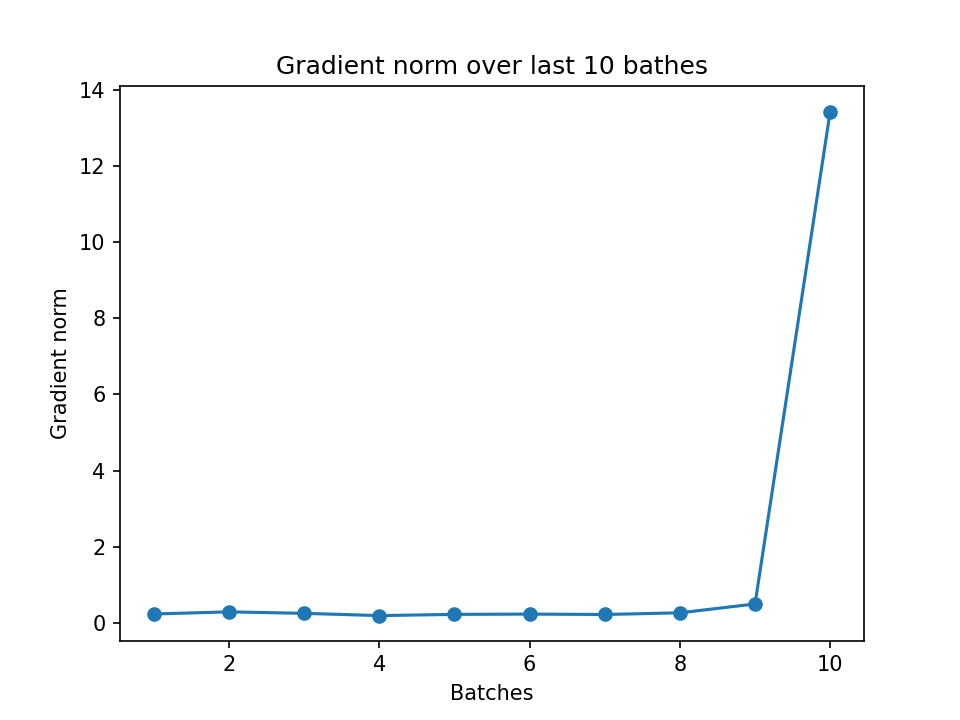
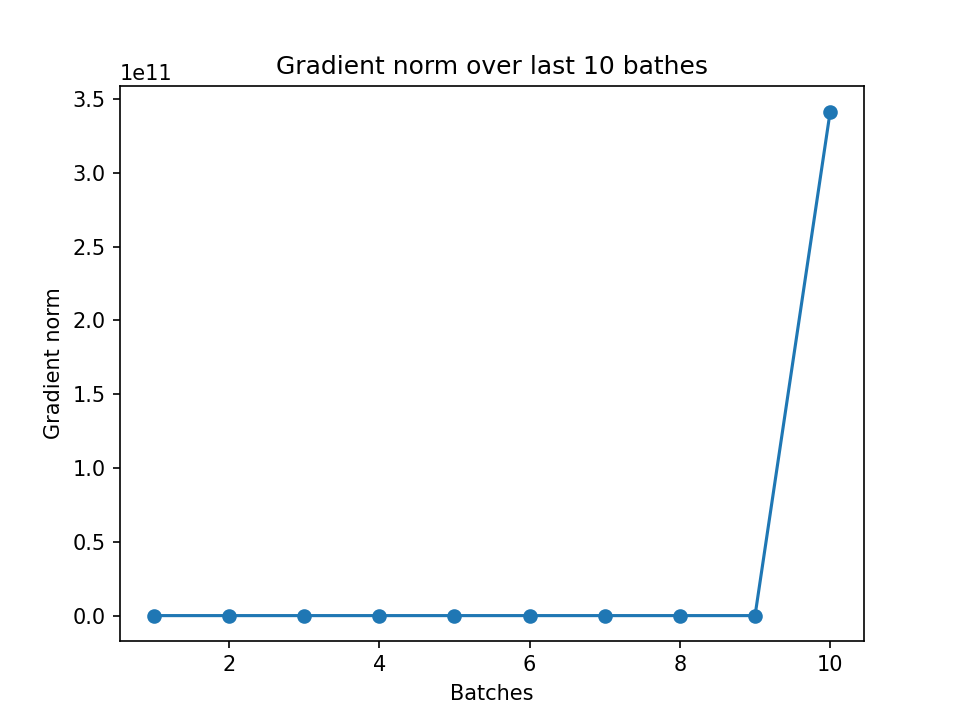
retrained CNN model for exploding and mitigation method

diff --git a/training_loop.py b/training_loop.py
@@ -5,28 +5,32 @@ import matplotlib.pyplot as plt
 import math
 
 from data.data_pipeline import create_dataloaders
-from RNN_model import RNN
+from CNN_model import CNN
 
 
-def train_model(model, train_loader, num_epochs=100, learning_rate=1, gradient_clip=None, weight_scaler=None, weight_decay=0):
+def train_model(model, train_loader, val_loader, num_epochs=100, learning_rate=1, mitigation_on=False):
     """
-    Training loop for RNN model.
+    Training loop for CNN model.
     
-    :param model: RNN model.
+    :param model: CNN model.
     :param train_loader: Training data.
     :param num_epochs: Number of epochs model is trained.
     :param learning_rate: Learning rate used for training.
-    :param gradient_clip: Value when gradients are clipped. If None gradients don't get clipped.
-    :param weight_scaler: Scaling value for the weights, if None weigths are not getting scaled.
+    :param mitigation_on: if False training loop will results in exploding gradients
+    else will result in mitigtation, will clip gradients, add weight_decay and learning rate decay with scheduler.
+    This will result in gradient and loss going down over time.
     """
 
-    if weight_scaler != None:
-        for name, param in model.named_parameters():
-            if 'weight_hh' in name:
-                param.data *= weight_scaler
+    if mitigation_on:
+        gradient_clip = 0.5
+        weight_decay = 1e-4
 
     criterion = nn.CrossEntropyLoss()
-    optimizer = torch.optim.SGD(model.parameters(), lr=learning_rate, weight_decay=weight_decay)
+    if not mitigation_on:
+        optimizer = torch.optim.SGD(model.parameters(), lr=learning_rate)
+    if mitigation_on:
+        optimizer = torch.optim.SGD(model.parameters(), lr=learning_rate, weight_decay=weight_decay)
+        scheduler = torch.optim.lr_scheduler.CosineAnnealingLR(optimizer, T_max=num_epochs, eta_min=0.001)
     train_losses = []
     grad_norms = []
     validation_losses = []
@@ -45,7 +49,7 @@ def train_model(model, train_loader, num_epochs=100, learning_rate=1, gradient_c
             optimizer.zero_grad()
             loss.backward()
 
-            if gradient_clip != None:
+            if mitigation_on:
                 mitigation = 'mitigation'
                 grad_norm = torch.nn.utils.clip_grad_norm_(model.parameters(), max_norm=gradient_clip)
             else:
@@ -66,10 +70,16 @@ def train_model(model, train_loader, num_epochs=100, learning_rate=1, gradient_c
         train_losses.append(train_loss)
                 
         grad_norms.append(np.mean(epoch_grad_norms))
-        print(f"Epoch {epoch}: Loss={loss:.4f}, GradNorm={np.mean(epoch_grad_norms):.2e}")
+        if mitigation_on:
+            scheduler.step()
 
+            last_lr = scheduler.get_last_lr()
+            print(last_lr)
 
-        #for if you want to use val
+        if torch.isnan(loss):
+            break
+
+        # #for if you want to use val
         # model.eval()
         # val_loss = 0
         # with torch.no_grad():
@@ -82,16 +92,14 @@ def train_model(model, train_loader, num_epochs=100, learning_rate=1, gradient_c
         
         # val_loss /= len(val_loader)
         # validation_losses.append(val_loss)
-
-        if torch.isnan(loss):
-            break
+        
+        print(f"Epoch {epoch}: Loss={train_loss:.4f}, GradNorm={np.mean(epoch_grad_norms):.2e}")
 
     return train_losses, grad_norms, validation_losses, last_10_grads, mitigation
 
+
 if __name__ == '__main__':
-    #For exploding gradiensts set batch_size to 64 and don't apply clipping
-    #For mitigation method for exploding gradiensts set gradient_clipping to 0.5 and set batch_size to 32 
-    #or gradient_clipping to 0.5 and weight_decay to 1e-2
+    #For exploding set mitigation_on to False and for mitigation set mitigation on to True
 
     DATA_CONFIG = {
     "use_normalized": False,     
@@ -103,6 +111,7 @@ if __name__ == '__main__':
     "batch_size":64,
     "shuffle": True,
     }
+
 
     train_loader, val_loader, test_loader = create_dataloaders(
         preprocessed_dir="preprocessed",
@@ -116,9 +125,10 @@ if __name__ == '__main__':
 
     print(f"Device: {device}")
 
-    model = RNN(input_size=1, hidden_size=256, num_layers=3, nonlinearity='relu', num_classes=10).to(device)
+    model = CNN(num_conv_layers=5, base_channels=32, num_classes=10).to(device)
 
-    train_losses, grad_norms, validation_losses, last_10_grads, mitigation = train_model(model, train_loader, learning_rate=1, gradient_clip=0.5, weight_decay=0)
+    train_losses, grad_norms, validation_losses, last_10_grads, mitigation = train_model(model, train_loader, val_loader, 
+                                                                                         learning_rate=0.35, mitigation_on=True)
 
     epochs = np.arange(0, len(train_losses))
 
@@ -147,4 +157,3 @@ if __name__ == '__main__':
     plt.ylabel('Gradient norm')
     plt.title('Gradient norm over last 10 bathes')
     plt.savefig(f'plots/grad_norms_last_10_{mitigation}.png', dpi=150)
-

diff --git a/data/data_pipeline.py b/data/data_pipeline.py
@@ -39,11 +39,11 @@ def load_data(preprocessed_dir, config=DEFAULT_CONFIG):
 
     # Choose raw vs normalized
     if config["use_normalized"]:
-        X_train = np.load(f"data/{preprocessed_dir}/X_train_norm.npy")
-        X_test = np.load(f"data/{preprocessed_dir}/X_test_norm.npy")
+        X_train = np.load(f"data/{preprocessed_dir}/X_train_norm_cnn.npy")
+        X_test = np.load(f"data/{preprocessed_dir}/X_test_norm_cnn.npy")
     else:
-        X_train = np.load(f"data/{preprocessed_dir}/X_train_raw.npy")
-        X_test = np.load(f"data/{preprocessed_dir}/X_test_raw.npy")
+        X_train = np.load(f"data/{preprocessed_dir}/X_train_raw_cnn.npy")
+        X_test = np.load(f"data/{preprocessed_dir}/X_test_raw_cnn.npy")
 
     y_train = np.load(f"data/{preprocessed_dir}/y_train.npy")
     y_test = np.load(f"data/{preprocessed_dir}/y_test.npy")
